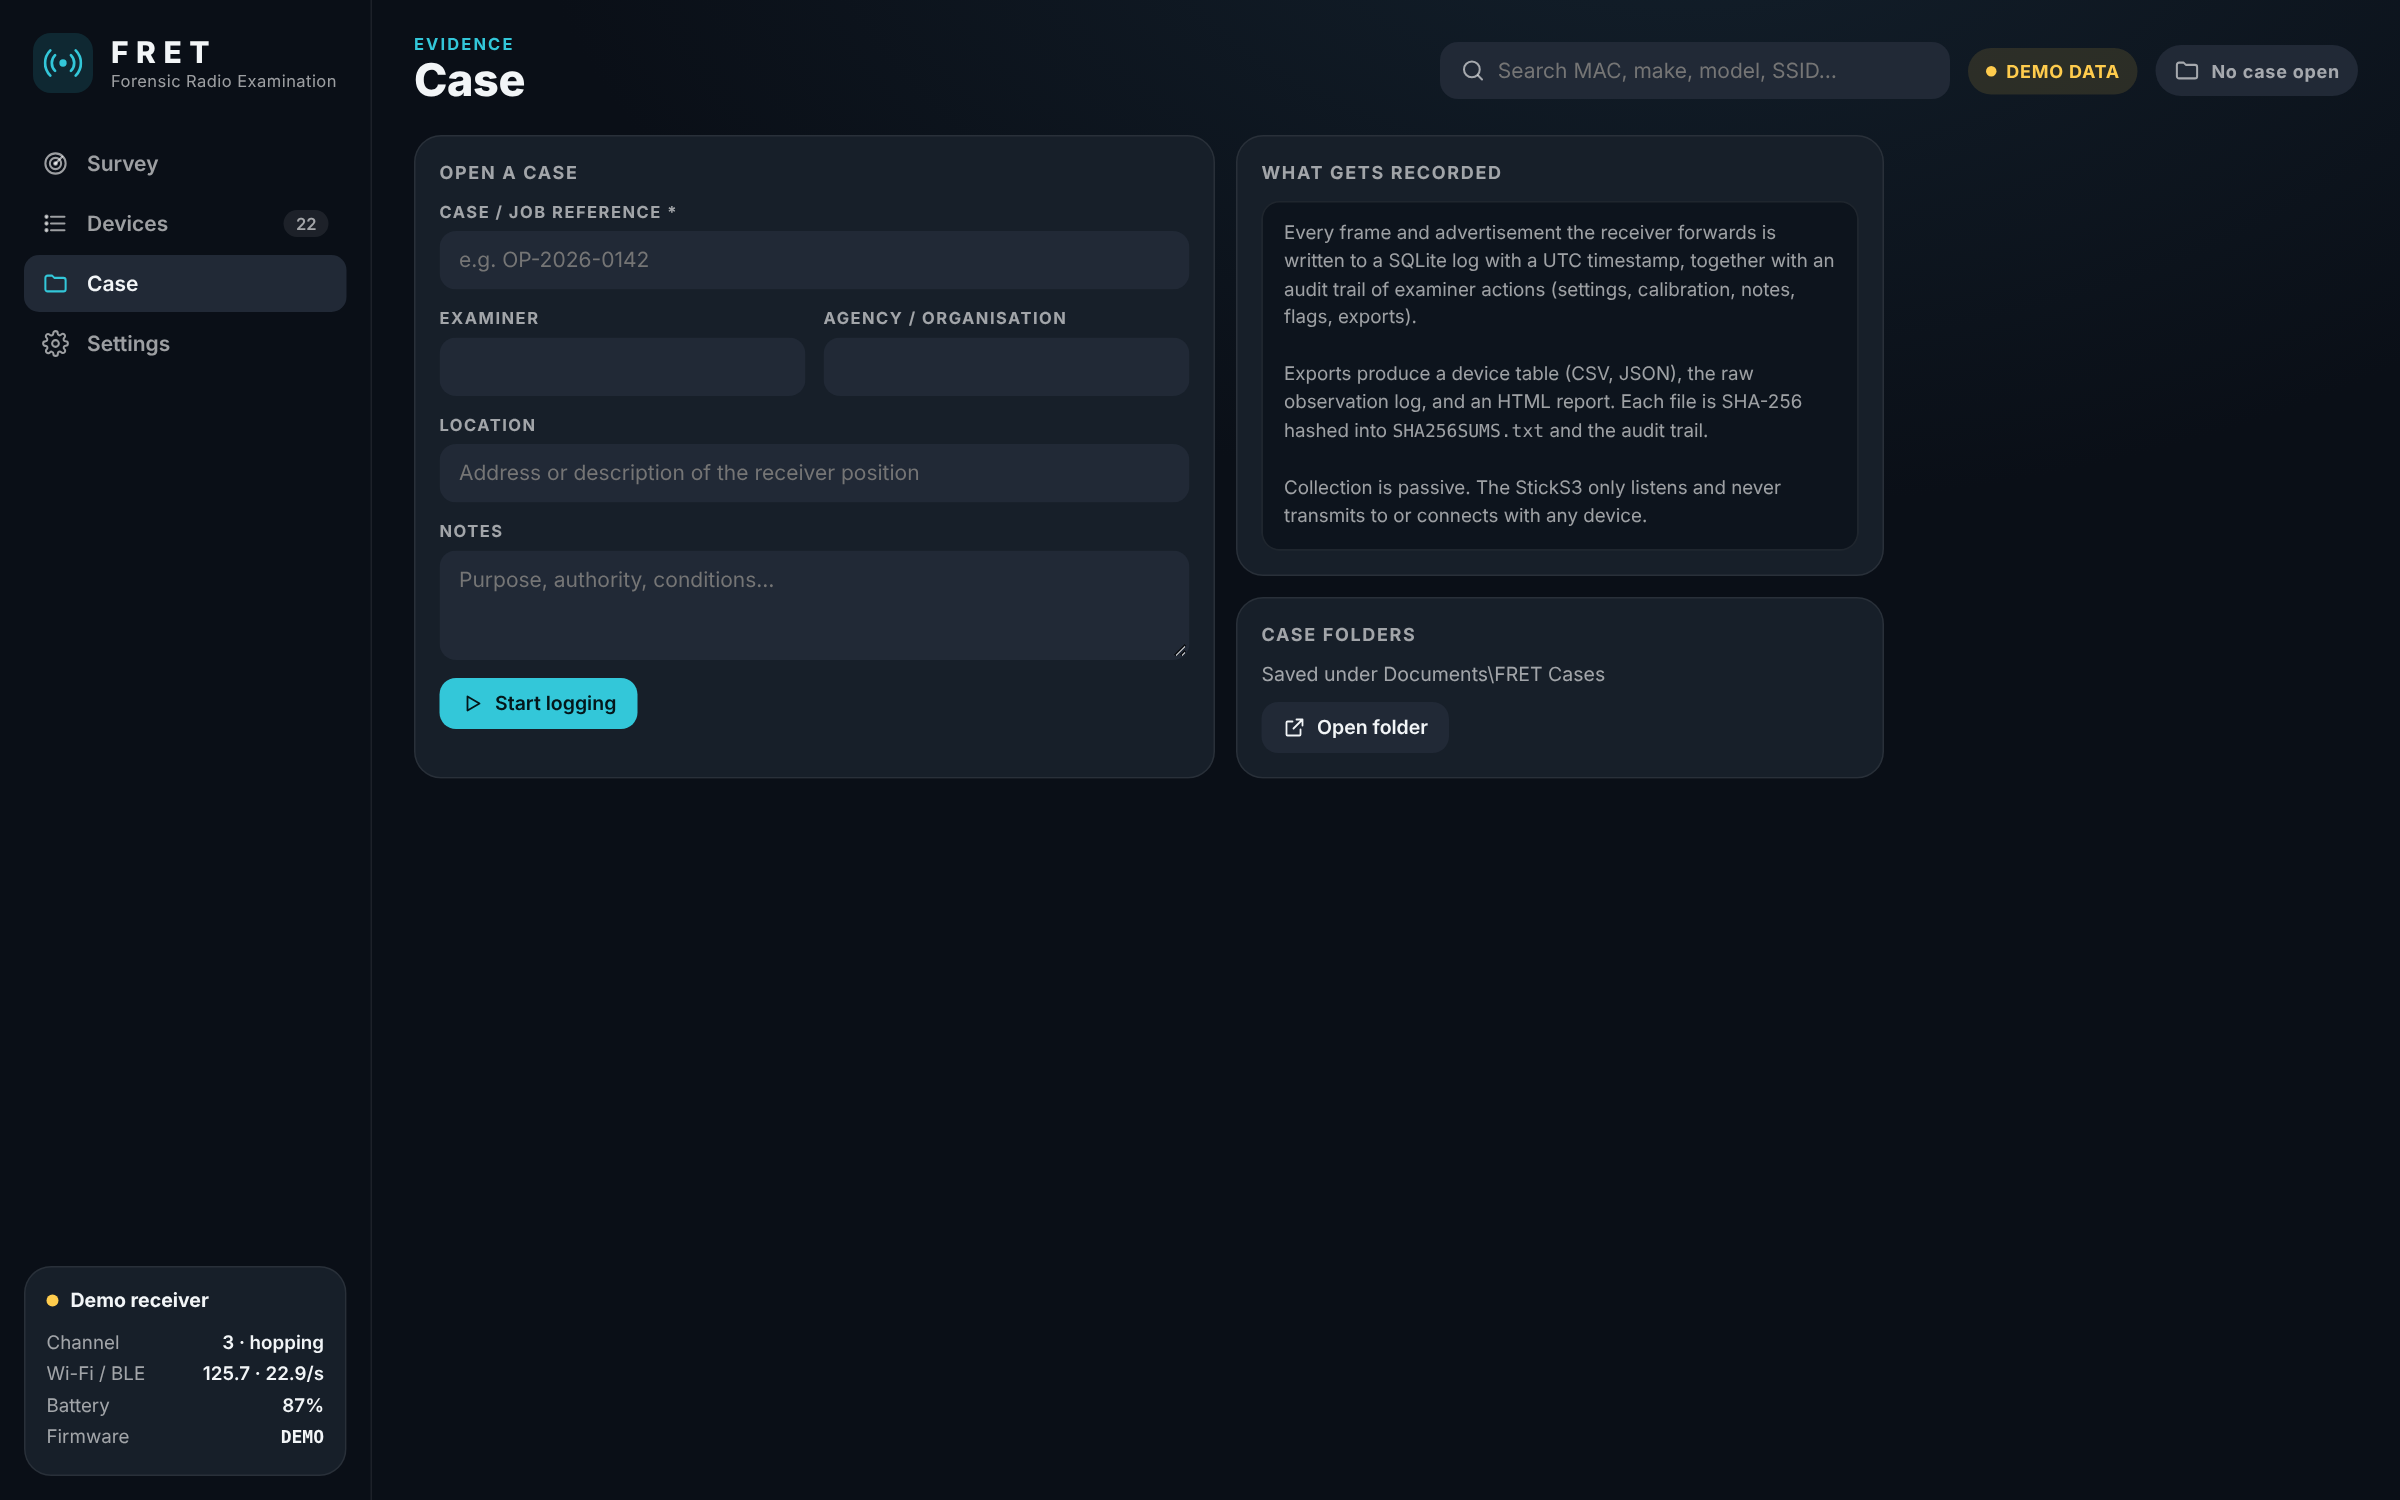
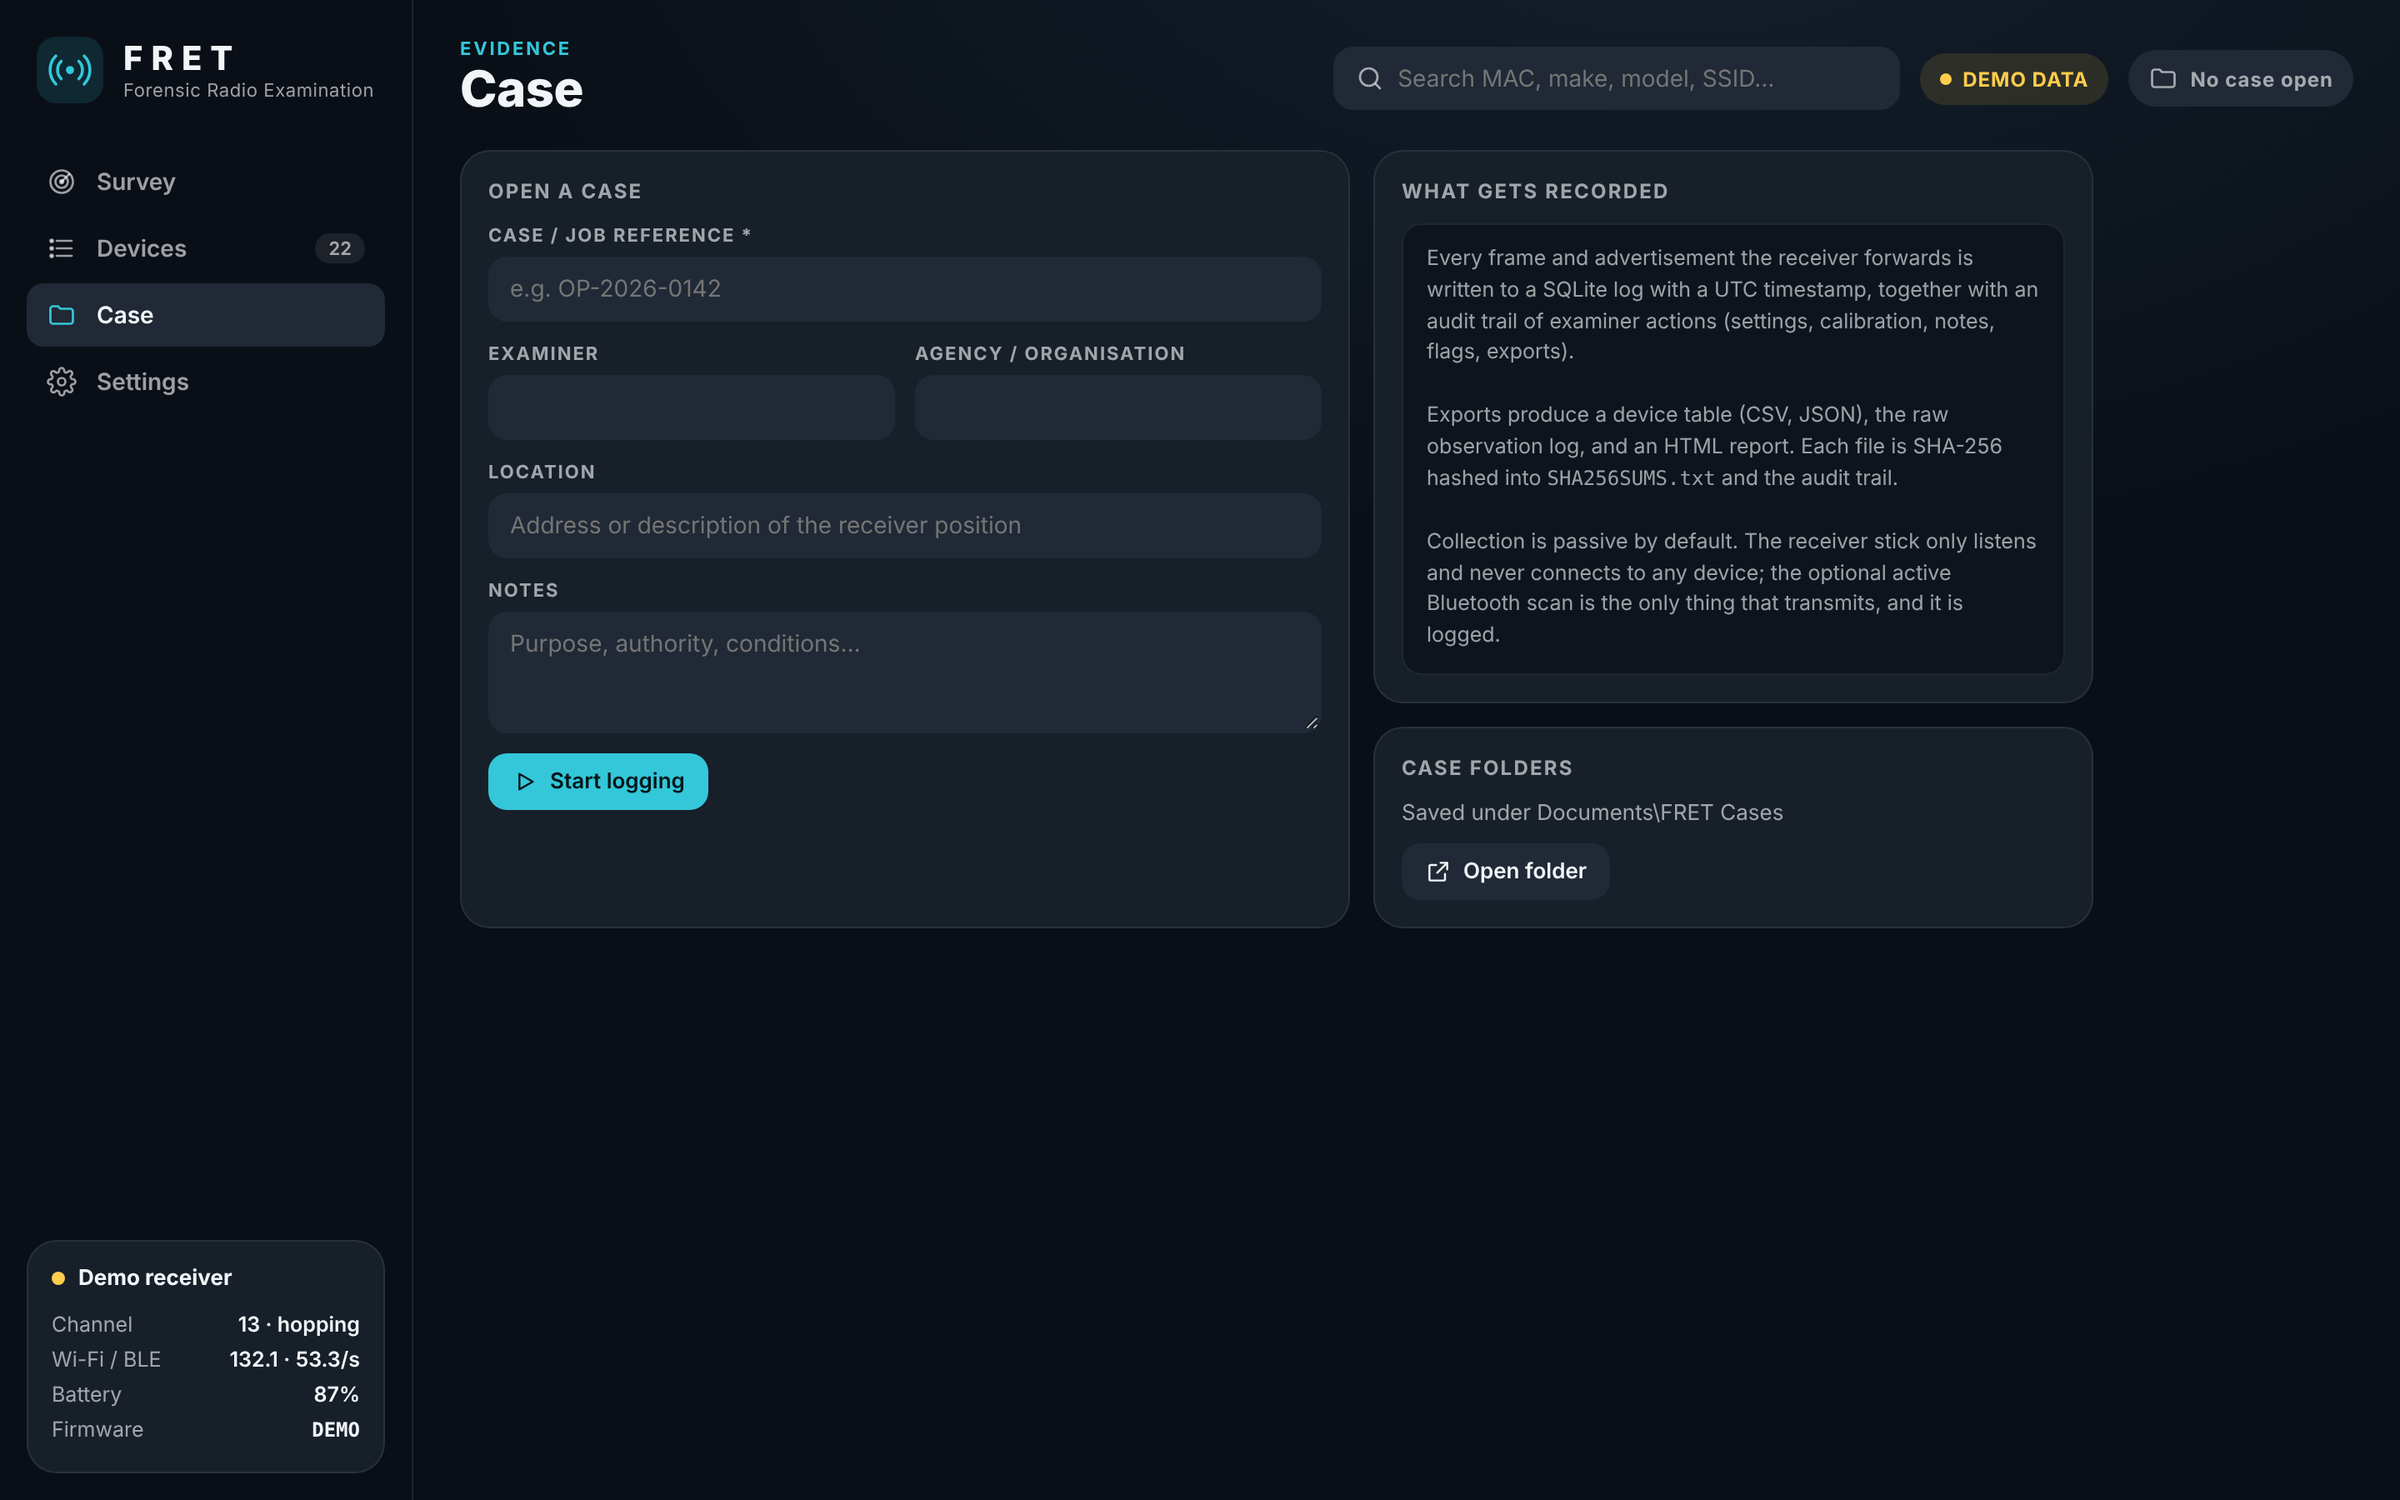
Refresh all screenshots for 1.3.0
Retaken in demo mode at the default 1440x900 window (2x): survey,
range and triangulate views; devices, CCTV filter and linked-address
views (device panel now shows the triangulated position); settings;
case open and recording; and the HTML report (now FRET 1.3.0).

diff --git a/README.md b/README.md
@@ -77,7 +77,7 @@ Everything is recorded to a timestamped case log with an audit trail and SHA-256
 <td width="50%"><img src="docs/images/survey-triangulate.png" alt="Triangulate mode"><br><sub><b>Triangulate mode</b>: after a walk (dotted track), each device has a position and a 95% confidence ellipse. The selected device shows its distance, bearing and accuracy.</sub></td>
 </tr>
 <tr>
-<td width="50%"><img src="docs/images/devices.png" alt="Devices view"><br><sub><b>Devices</b>: a sortable, filterable list with the detail panel. This Hikvision camera was identified from its registered address and its WPS model.</sub></td>
+<td width="50%"><img src="docs/images/devices.png" alt="Devices view"><br><sub><b>Devices</b>: a sortable, filterable list with the detail panel. This Hikvision camera was identified from its registered address and its WPS model, and triangulated to 11 m east of the examiner after a walk.</sub></td>
 <td width="50%"><img src="docs/images/devices-cctv-filter.png" alt="CCTV filter"><br><sub><b>CCTV filter</b>: one click shows only cameras.</sub></td>
 </tr>
 <tr>
